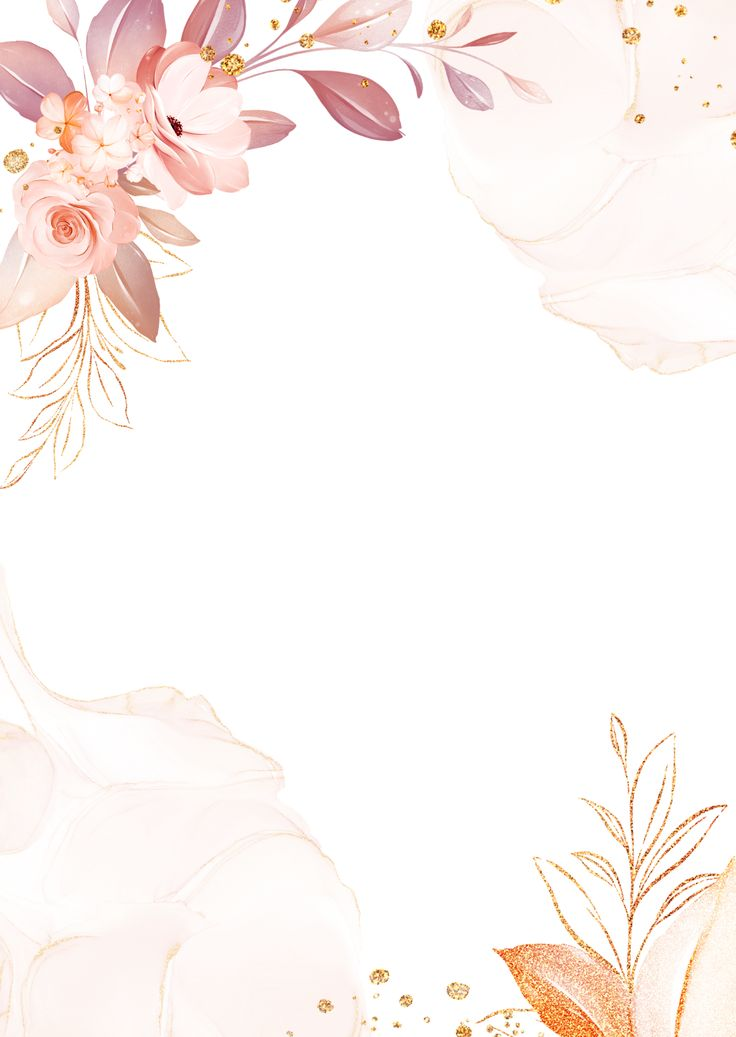
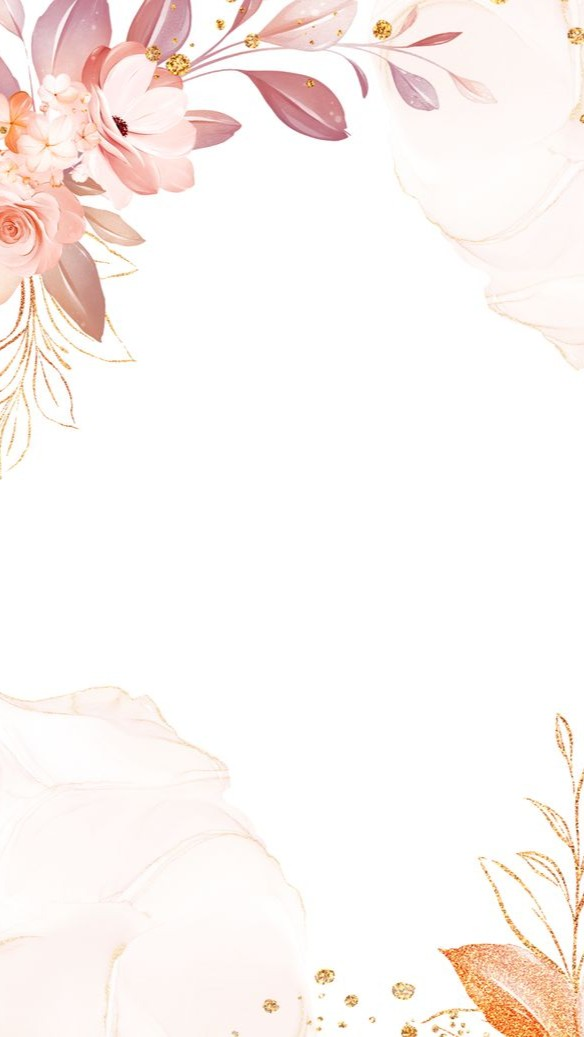
Add files via upload

diff --git a/style.css b/style.css
@@ -16,7 +16,11 @@ body{
     left: 0;
     width: 100%;
     height: 100%;
-    background-image: url(img/invitation\ background.jpg);
+    background-image: url(img/bg\ 2.jpg);
+    background-repeat: no-repeat;
+    background-size: cover;
+    background-attachment: fixed;
+    min-height: 100%;
 z-index: -1;
 }
 
@@ -49,14 +53,14 @@ color: var(--bg);
 .hero a{
     color: var(--pink);
     background-color: transparent;
-    box-shadow: var(--shadow);
+    
 }
 
 .hero a:hover{
     background-color: white;
     color: var(--pink);
     opacity: 70%;
-
+box-shadow: var(--shadow);
 }
 
 /*media query*/
